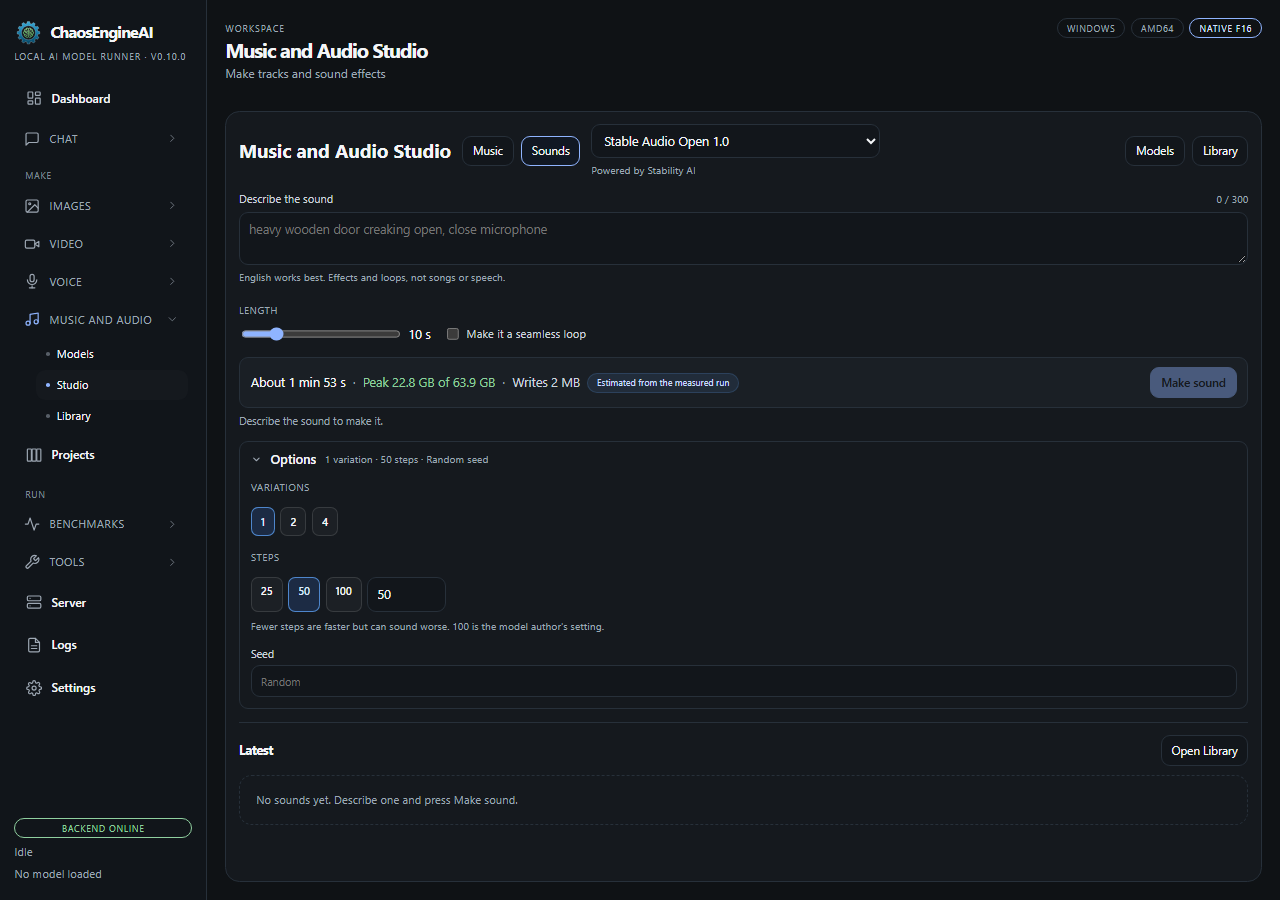
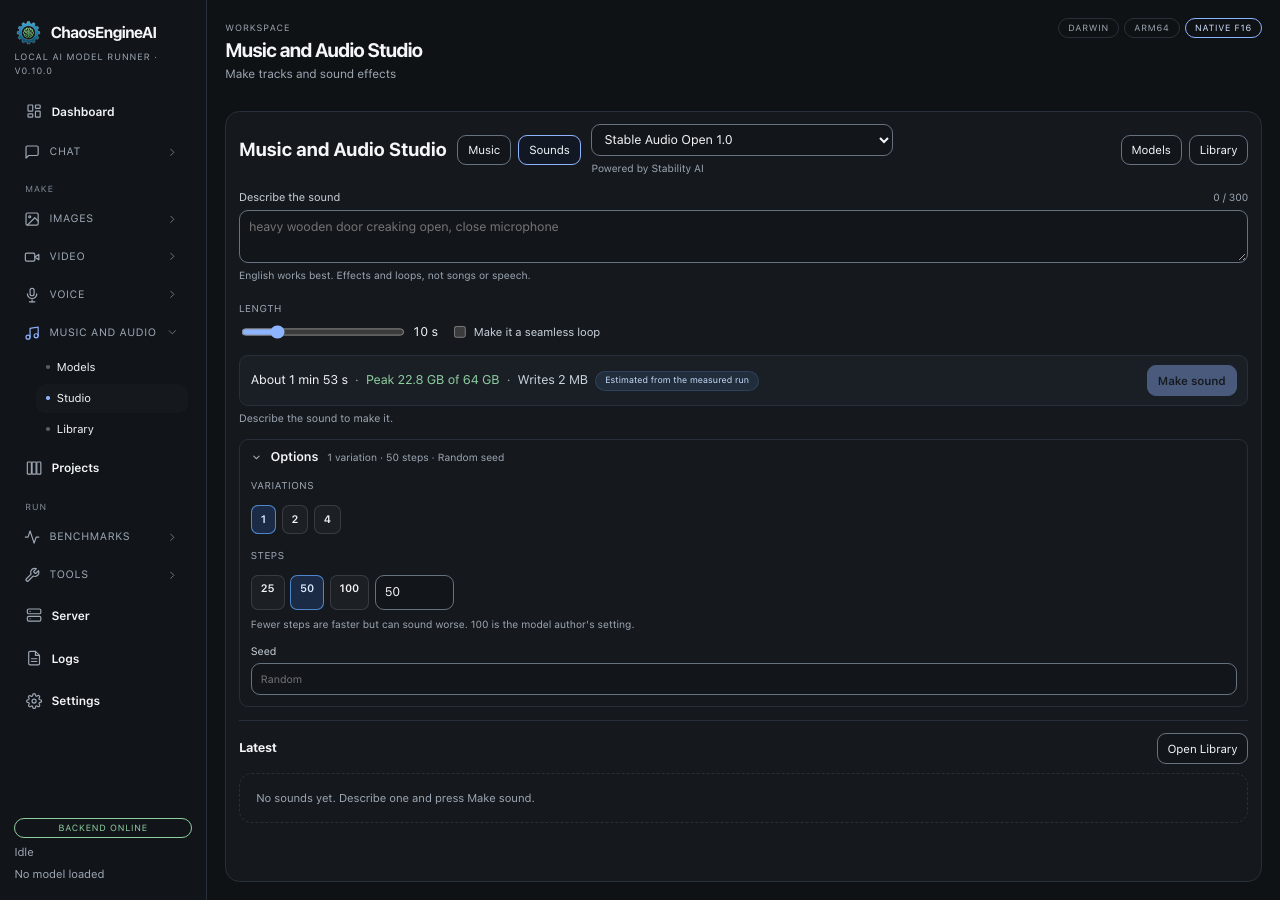
docs(a11y): border contrast progress file and before/after screens

diff --git a/docs/progress/v0100-border.md b/docs/progress/v0100-border.md
@@ -1,0 +1,36 @@
+# v0.10.0 task A: field border contrast
+
+Branch `v0100/border` (worktree `/Users/dan/ChaosEngineAI-v0100-border`).
+
+## Done
+- `src/styles.css`: `--border-control: #66727f` in `:root`; `:root[data-strong-borders="off"]` sets it back to `var(--border)`.
+- Control selectors moved to `--border-control` (only their `border` declaration): `.primary-button, .secondary-button, .segment` (`.primary-button` keeps its accent border-color rule), `.text-input, .text-area, select.text-input`, `.thread-icon-button`, `.thread-mode-toggle`, `.cap-filter-btn`, `.challenge-prompt-tab`, `.preset-button`, `.cache-strategy-info-btn`, `.slider-input`, `.bm-run-select`, `.sampler-panel__clear`, `.sampler-row__reset`, `.kv-chip__bits-button`, `.kv-chip__reset`, `.swap-menu__reset`, `.composer-mic__button`, `.voice-row__play`.
+- Left on `--border` on purpose: panels, cards, tables, dividers, chips and badges, popovers, menus, drop zones, list rows (`.session-button`), the `.subtab` and view-toggle containers, hover-only rules.
+- Setting `strongControlBorders` (default true): `helpers/settings.py` (default + loader), `state/settings_state.py` (read + update), `models/__init__.py` (request), `src/types/settings.ts` (both interfaces).
+- `src/App.tsx`: one effect sets/removes `data-strong-borders="off"` on `<html>`.
+- `src/features/settings/AccessibilityPanel.tsx` (+ test), mounted in General after `LanguagePanel`. The panel has no props: it reads and follows the `<html>` attribute (MutationObserver), so SettingsDraft and `utils/runtime.ts` (outside the ownership row) are untouched. Switch shows an On/Off segment next to the label (the plain button had no visible state).
+- Locale keys `accessibilityPanel.{title,strongBorders,note,on,off}`: English in `en`, null in the other ten (incl. tlh).
+- Tests: `src/features/settings/AccessibilityPanel.test.tsx`, `tests/test_strong_control_borders.py`, `e2e/tests/23-border-contrast.spec.ts`.
+- E2E suite: `scripts/e2e_phases/border_settings.py`, one call in phase 7 (`strongControlBorders round trip`; restores the user's value).
+- Screens in `docs/plans/v0100-screens/`: `border-{chat,image-studio,settings,modal}-{on,off}.png`, `border-settings-en-XA.png`.
+
+## Tests run
+- `pytest tests/test_strong_control_borders.py tests/test_backend_service.py tests/test_services.py`: 134 passed.
+- `npm test`: 1537 passed (118 files); `npx tsc --noEmit` clean; `npm run i18n:validate` OK.
+- Playwright `23-border-contrast.spec.ts`: 2 passed (desktop, 375 px): computed border-color of `#settings-language-select` and a `.secondary-button` is rgb(102,114,127) on, rgb(39,48,58) off, survives reload, no sideways scroll at 375 px. Full `npx playwright test --workers=1`: 134 passed (15.2 min).
+- E2E suite phase 7 against a throwaway backend: the new check passes (the other four phase-7 checks failed there only because the CLI had no API token for that backend; not related).
+
+## Bug found and fixed on the way
+After a reload the panel showed "on" while the page was off (state read before the saved value reached the page). Fixed by syncing from the attribute in an effect.
+
+## Deviations
+- Screenshots were taken with the Vite dev server and test backend through Playwright (headless Chromium), not `npm run tauri:dev`; the app shell was not launched.
+- en-XA: no runtime switch exists (`?devLocale` is not wired), so the generated pseudo-locale files were copied over `en` temporarily and reverted (`git checkout`); nothing from that is committed. My panel shows no clipping; the Language panel's help text is cut off at the card bottom in en-XA (existing, not touched).
+- The panel's row layout uses an inline style (flex, gap) so no layout rule was added to `styles.css` outside the token and control rules.
+- `.session-button`, view-toggle and other container-like buttons were left on `--border` (list rows, not field boundaries). Say if you want them strong.
+
+## NOT tested
+Windows and Linux WebView rendering; OS high-contrast modes; `npm run tauri:dev`; the other eight Settings sections and other studios at the new border (only Chat, Image Studio, Settings, one modal were looked at).
+
+## Open questions
+None blocking.
